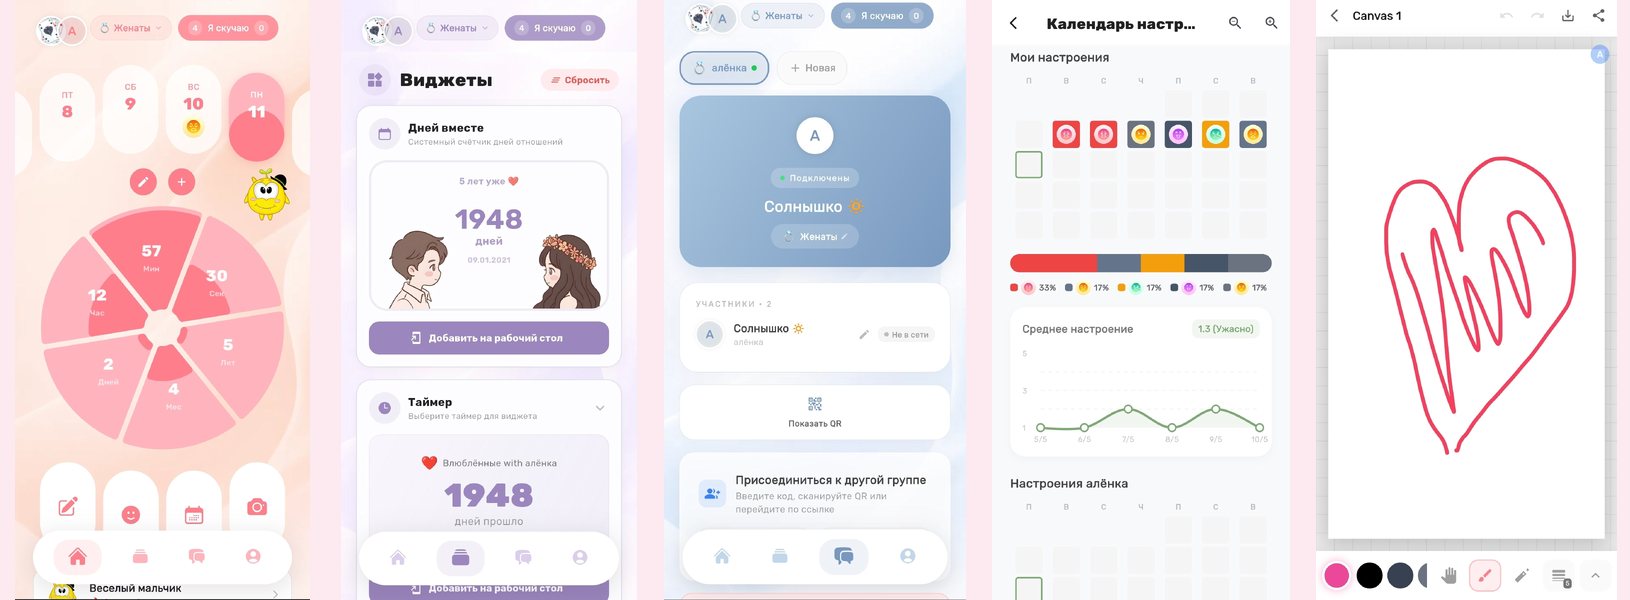
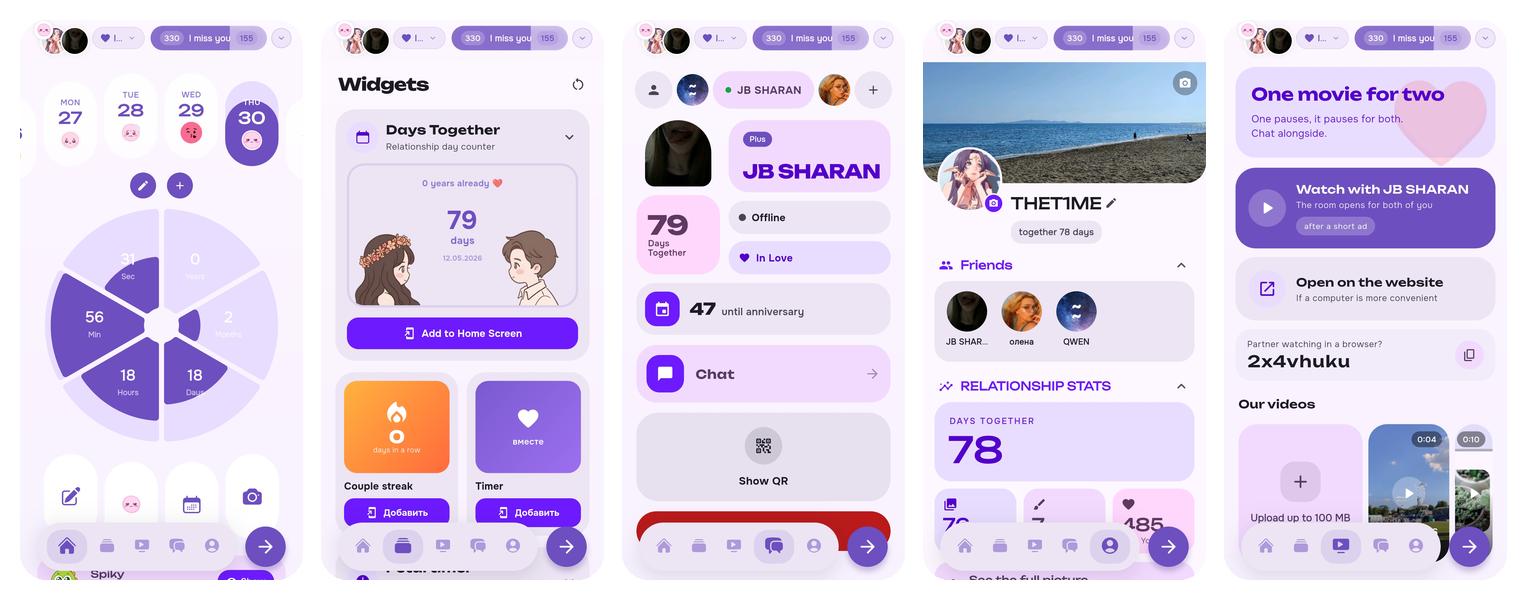
docs: новые скриншоты в README
Коллаж собран из пяти живых экранов: главная, виджеты, подключение, профиль
и совместный просмотр. Прежний показывал интерфейс до редизайна.

Исходники лежат в docs/branding/raw/ и нумерованы в порядке полосы, сборка
одной командой — tools/make_screenshots_collage.py. Скрипт срезает статус-бар
с системной навигацией и скругляет углы.

Golden-тесты (test/goldens) остаются как проверка вёрстки: витрину рисовать
ими не вышло — в тестовом рендере не декодируются изображения, и экраны
выходят без фотографий, — но экран достижений они проверяют, и на первом же
прогоне поймали, что строка фильтров вылезает за границу на 86 пикселей при
ширине 360 dp. Чипы пущены прокруткой.

Медаль достижения теперь всегда показывает число-цель: статус читается
цветом фигуры и галочкой справа, эмодзи внутри дублировал их и мельчил.

Claude-Session: https://claude.ai/code/session_01QEPyzUKC7XqECfRNJD4TPB

diff --git a/test/goldens/screens_golden_test.dart b/test/goldens/screens_golden_test.dart
@@ -1,0 +1,91 @@
+// Скриншоты для README рисуются здесь, а не снимаются с телефона.
+//
+// Так они не зависят от чужих данных на экране, не тащат чужие имена и аватары
+// и обновляются одной командой после правки интерфейса:
+//
+//     flutter test test/goldens --update-goldens
+//
+// Готовые PNG лежат рядом в `goldens/`, коллаж для README собирает
+// `tools/make_screenshots_collage.py`.
+
+import 'dart:io';
+
+import 'package:flutter/material.dart';
+import 'package:flutter/services.dart';
+import 'package:flutter_test/flutter_test.dart';
+import 'package:shared_preferences/shared_preferences.dart';
+import 'package:love_app/models/pair_achievement.dart';
+import 'package:love_app/screens/achievements_screen.dart';
+import 'package:love_app/services/achievement_service.dart';
+import 'package:love_app/services/locale_service.dart';
+import 'package:love_app/theme/app_theme.dart';
+
+/// Размер кадра — телефон 1080×2400 при плотности 3.
+const Size _phone = Size(360, 800);
+
+Future<void> _shoot(
+  WidgetTester tester, {
+  required Widget child,
+  required String name,
+}) async {
+  tester.view.physicalSize = _phone * 3;
+  tester.view.devicePixelRatio = 3;
+  addTearDown(tester.view.reset);
+
+  await tester.pumpWidget(MaterialApp(
+    debugShowCheckedModeBanner: false,
+    home: child,
+  ));
+  await tester.pump(const Duration(milliseconds: 600));
+  await expectLater(find.byType(MaterialApp), matchesGoldenFile('$name.png'));
+}
+
+/// Подшивает настоящие шрифты: без этого тестовый рендер пишет текст
+/// прямоугольниками (Ahem), и скриншот выходит нечитаемым.
+Future<void> _loadFont(String family, List<String> paths) async {
+  final loader = FontLoader(family);
+  var any = false;
+  for (final path in paths) {
+    final file = File(path);
+    if (!file.existsSync()) continue;
+    loader.addFont(file.readAsBytes().then(ByteData.sublistView));
+    any = true;
+  }
+  if (any) await loader.load();
+}
+
+void main() {
+  final theme = AppThemes.purple;
+
+  setUpAll(() async {
+    TestWidgetsFlutterBinding.ensureInitialized();
+    // Экраны поднимают очередь загрузок и настройки — без подложки prefs
+    // рендер падает на MissingPluginException.
+    // Русский — как на скриншотах в README: остальные кадры там русские.
+    SharedPreferences.setMockInitialValues({'app_language': 'ru'});
+    await LocaleService.instance.init();
+    await _loadFont('Onest', ['assets/fonts/Onest.ttf']);
+    await _loadFont('Unbounded', ['assets/fonts/Unbounded.ttf']);
+    // Иконки и эмодзи берём из системы: свои в проекте не лежат, а без них
+    // галочки и медали остаются пустыми квадратами.
+    await _loadFont('MaterialIcons', [
+      '${Platform.environment['HOME']}/snap/flutter/common/flutter/bin/cache/artifacts/material_fonts/MaterialIcons-Regular.otf',
+    ]);
+    await _loadFont('Noto Color Emoji', [
+      '/usr/share/fonts/truetype/noto/NotoColorEmoji.ttf',
+    ]);
+  });
+
+  testWidgets('достижения', (tester) async {
+    // Живые числа: половина получена, у остальных виден прогресс.
+    AchievementService.instance.stats.value = const AchievementStats(
+      daysTogether: 214,
+      memories: 76,
+      messages: 1840,
+      drawings: 7,
+      streakDays: 12,
+    );
+    await _shoot(tester, child: AchievementsScreen(theme: theme), name: 'achievements');
+  });
+
+}

diff --git a/lib/screens/achievements_screen.dart b/lib/screens/achievements_screen.dart
@@ -194,12 +194,18 @@ class _AchievementsScreenState extends State<AchievementsScreen> {
       );
     }
 
-    return Row(
-      children: [
-        chip(_s.achFilterAll, _Filter.all),
-        chip(_s.achFilterUnlocked, _Filter.unlocked),
-        chip(_s.achFilterInProgress, _Filter.inProgress),
-      ],
+    // Три чипа в ряд не влезают на 360 dp — на такой ширине строка вылезала
+    // за экран на 86 пикселей (поймал golden-тест). Пускаем их прокруткой:
+    // Wrap перенёс бы третий чип на вторую строку и сдвинул весь список.
+    return SingleChildScrollView(
+      scrollDirection: Axis.horizontal,
+      child: Row(
+        children: [
+          chip(_s.achFilterAll, _Filter.all),
+          chip(_s.achFilterUnlocked, _Filter.unlocked),
+          chip(_s.achFilterInProgress, _Filter.inProgress),
+        ],
+      ),
     );
   }
 
@@ -237,7 +243,9 @@ class _AchievementsScreenState extends State<AchievementsScreen> {
           AchievementMedal(
             tier: a.tier,
             unlocked: unlocked,
-            label: unlocked ? a.emoji : '${a.threshold}',
+            // Всегда число-цель: статус читается цветом фигуры и галочкой
+            // справа, а эмодзи внутри медали дублировал бы их и мельчил.
+            label: '${a.threshold}',
             size: 48,
             fill: unlocked ? a.tierColor : cs.surfaceContainerHighest,
             onFill: unlocked ? Colors.white : cs.onSurfaceVariant,

diff --git a/tools/make_screenshots_collage.py b/tools/make_screenshots_collage.py
@@ -1,0 +1,76 @@
+#!/usr/bin/env python3
+"""Собирает коллаж скриншотов для README.
+
+Исходники лежат в `docs/branding/raw/` и нумерованы в том порядке, в каком
+попадут в полосу. Сняты с телефона: golden-тесты давали кадры без картинок —
+в тестовом рендере изображения не декодируются, — а витрина без фотографий и
+аватаров выглядит мёртвой.
+
+Скрипт срезает системные полосы (часы с батарейкой сверху, кнопки навигации
+снизу), приводит кадры к одной высоте и склеивает через равные промежутки.
+
+    python3 tools/make_screenshots_collage.py
+"""
+import pathlib
+
+from PIL import Image, ImageDraw
+
+ROOT = pathlib.Path(__file__).resolve().parent.parent
+RAW = ROOT / "docs" / "branding" / "raw"
+OUT = ROOT / "docs" / "branding" / "screenshots.png"
+
+# Высота полосы и поля — как в прежнем коллаже, чтобы вёрстка README не поехала.
+FRAME_H = 560
+GAP = 18
+PAD = 20
+
+# Сколько срезать у кадра 1080×2400 сверху и снизу: статус-бар и системная
+# навигация к приложению отношения не имеют и только сбивают взгляд.
+CROP_TOP = 112
+CROP_BOTTOM = 150
+
+# Скруглённые углы: кадры читаются как экраны, а не как прямоугольные обрезки.
+CORNER = 26
+
+
+def rounded(im: Image.Image, radius: int) -> Image.Image:
+    mask = Image.new("L", im.size, 0)
+    ImageDraw.Draw(mask).rounded_rectangle(
+        (0, 0, im.width - 1, im.height - 1), radius=radius, fill=255
+    )
+    out = im.convert("RGBA")
+    out.putalpha(mask)
+    return out
+
+
+def frame(path: pathlib.Path) -> Image.Image:
+    im = Image.open(path).convert("RGB")
+    im = im.crop((0, CROP_TOP, im.width, im.height - CROP_BOTTOM))
+    scale = FRAME_H / im.height
+    im = im.resize((round(im.width * scale), FRAME_H), Image.LANCZOS)
+    return rounded(im, CORNER)
+
+
+def main() -> None:
+    paths = sorted(RAW.glob("*.jpg")) + sorted(RAW.glob("*.png"))
+    if not paths:
+        raise SystemExit(f"нет исходников в {RAW}")
+
+    frames = [frame(p) for p in paths]
+    width = sum(f.width for f in frames) + GAP * (len(frames) - 1) + PAD * 2
+    canvas = Image.new("RGBA", (width, FRAME_H + PAD * 2), (255, 255, 255, 0))
+
+    x = PAD
+    for f in frames:
+        canvas.alpha_composite(f, (x, PAD))
+        x += f.width + GAP
+
+    canvas.convert("RGB").save(OUT, quality=95)
+    print(
+        f"коллаж собран: {OUT} ({canvas.width}×{canvas.height}), "
+        f"кадров {len(frames)}: {', '.join(p.stem for p in paths)}"
+    )
+
+
+if __name__ == "__main__":
+    main()
